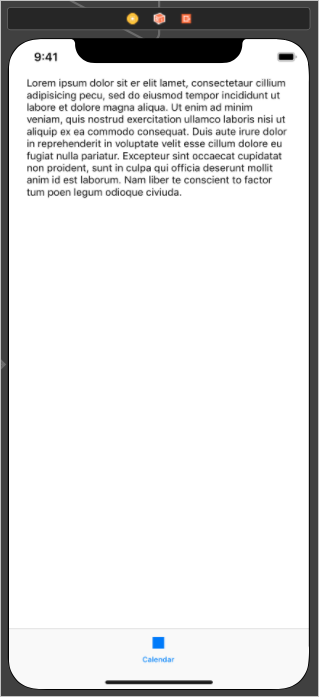
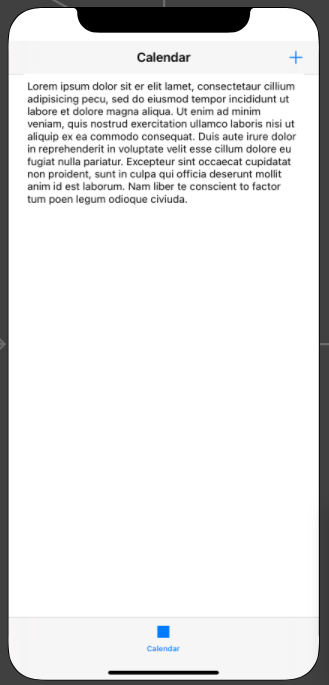
Update create app step

Changed region(s): [[0.0, 0.0, 1.0, 1.0], [0.0564, 0.9197, 0.9592, 1.0]]

diff --git a/tutorial/02-create-app.md b/tutorial/02-create-app.md
@@ -3,9 +3,9 @@
 Begin by creating a new Swift project.
 
 1. Open Xcode. On the **File** menu, select **New**, then **Project**.
-1. Choose the **Single View App** template and select **Next**.
+1. Choose the **App** template and select **Next**.
 
-    ![A screenshot of the Xcode template selection dialog](./images/xcode-select-template.png)
+    ![A screenshot of the Xcode template selection dialog](images/xcode-select-template.png)
 
 1. Set the **Product Name** to `GraphTutorial` and the **Language** to **Swift**.
 1. Fill in the remaining fields and select **Next**.
@@ -30,7 +30,7 @@ Before moving on, install some additional dependencies that you will use later.
 1. Open the Podfile and add the following lines just after the `use_frameworks!` line.
 
     ```Ruby
-    pod 'MSAL', '~> 1.1.1'
+    pod 'MSAL', '~> 1.1.13'
     pod 'MSGraphClientSDK', ' ~> 1.0.0'
     pod 'MSGraphClientModels', '~> 1.3.0'
     ```
@@ -52,7 +52,7 @@ In this section you will create the views for the app: a sign in page, a tab bar
 1. Expand the **GraphTutorial** folder in Xcode, then select **ViewController.swift**.
 1. In the **File Inspector**, change the **Name** of the file to `SignInViewController.swift`.
 
-    ![A screenshot of the File Inspector](./images/rename-file.png)
+    ![A screenshot of the File Inspector](images/rename-file.png)
 
 1. Open **SignInViewController.swift** and replace its contents with the following code.
 
@@ -72,31 +72,30 @@ In this section you will create the views for the app: a sign in page, a tab bar
     }
     ```
 
-1. Open the **Main.storyboard** file.
-1. Expand **View Controller Scene**, then select **View Controller**.
+1. Open **Main.storyboard**. Expand **View Controller Scene**, then select **View Controller**.
 
-    ![A screenshot of Xcode with the View Controller selected](./images/storyboard-select-view-controller.png)
+    ![A screenshot of Xcode with the View Controller selected](images/storyboard-select-view-controller.png)
 
 1. Select the **Identity Inspector**, then change the **Class** dropdown to **SignInViewController**.
 
-    ![A screenshot of the Identity Inspector](./images/change-class.png)
+    ![A screenshot of the Identity Inspector](images/change-class.png)
 
 1. Select the **Library**, then drag a **Button** onto the **Sign In View Controller**.
 
-    ![A screenshot of the Library in Xcode](./images/add-button-to-view.png)
+    ![A screenshot of the Library in Xcode](images/add-button-to-view.png)
 
 1. With the button selected, select the **Attributes Inspector** and change the **Title** of the button to `Sign In`.
 
-    ![A screenshot of the Title field in the Attributes Inspector in Xcode](./images/set-button-title.png)
+    ![A screenshot of the Title field in the Attributes Inspector in Xcode](images/set-button-title.png)
 
 1. With the button selected, select the **Align** button at the bottom of the storyboard. Select both the **Horizontally in container** and **Vertically in container** constraints, leave their values as 0, then select **Add 2 constraints**.
 
-    ![A screenshot of the alignment constraints settings in Xcode](./images/add-alignment-constraints.png)
+    ![A screenshot of the alignment constraints settings in Xcode](images/add-alignment-constraints.png)
 
 1. Select the **Sign In View Controller**, then select the **Connections Inspector**.
 1. Under **Received Actions**, drag the unfilled circle next to **signIn** onto the button. Select **Touch Up Inside** on the pop-up menu.
 
-    ![A screenshot of dragging the signIn action to the button in Xcode](./images/connect-sign-in-button.png)
+    ![A screenshot of dragging the signIn action to the button in Xcode](images/connect-sign-in-button.png)
 
 ### Create tab bar
 
@@ -104,11 +103,11 @@ In this section you will create the views for the app: a sign in page, a tab bar
 1. Select the **Sign In View Controller**, then select the **Connections Inspector**.
 1. Under **Triggered Segues**, drag the unfilled circle next to **manual** onto the **Tab Bar Controller** on the storyboard. Select **Present Modally** in the pop-up menu.
 
-    ![A screenshot of dragging a manual segue to the new Tab Bar Controller in Xcode](./images/add-segue.png)
+    ![A screenshot of dragging a manual segue to the new Tab Bar Controller in Xcode](images/add-segue.png)
 
 1. Select the segue you just added, then select the **Attributes Inspector**. Set the **Identifier** field to `userSignedIn`, and set **Presentation** to **Full Screen**.
 
-    ![A screenshot of the Identifier field in the Attributes Inspector in Xcode](./images/set-segue-identifier.png)
+    ![A screenshot of the Identifier field in the Attributes Inspector in Xcode](images/set-segue-identifier.png)
 
 1. Select the **Item 1 Scene**, then select the **Connections Inspector**.
 1. Under **Triggered Segues**, drag the unfilled circle next to **manual** onto the **Sign In View Controller** on the storyboard. Select **Present Modally** in the pop-up menu.
@@ -117,11 +116,11 @@ In this section you will create the views for the app: a sign in page, a tab bar
 ### Create welcome page
 
 1. Select the **Assets.xcassets** file.
-1. On the **Editor** menu, select **Add Assets**, then **New Image Set**.
+1. On the **Editor** menu, select **Add New Asset**, then **Image Set**.
 1. Select the new **Image** asset and use the **Attribute Inspector** to set its **Name** to `DefaultUserPhoto`.
 1. Add any image you like to serve as a default user profile photo.
 
-    ![A screenshot of the Image Set asset view in Xcode](./images/add-default-user-photo.png)
+    ![A screenshot of the Image Set asset view in Xcode](images/add-default-user-photo.png)
 
 1. Create a new **Cocoa Touch Class** file in the **GraphTutorial** folder named `WelcomeViewController`. Choose **UIViewController** in the **Subclass of** field.
 1. Open **WelcomeViewController.swift** and replace its contents with the following code.
@@ -202,7 +201,7 @@ In this section you will create the views for the app: a sign in page, a tab bar
 
 The welcome scene should look similar to this once you're done.
 
-![A screenshot of the Welcome scene layout](./images/welcome-scene-layout.png)
+![A screenshot of the Welcome scene layout](images/welcome-scene-layout.png)
 
 ### Create calendar page
 
@@ -225,19 +224,53 @@ The welcome scene should look similar to this once you're done.
             calendarJSON.text = "Calendar"
             calendarJSON.sizeToFit()
         }
+
+        @IBAction func showNewEventForm() {
+            self.performSegue(withIdentifier: "showEventForm", sender: self)
+        }
     }
     ```
 
 1. Open **Main.storyboard**. Select the **Item 2 Scene**, then select the **Identity Inspector**. Change the **Class** value to **CalendarViewController**.
+1. Using the **Library**, add a **Navigation Bar** to the **Item 2 Scene**.
+1. Double-click the **Title** in the navigation bar and update it to `Calendar`.
+1. Using the **Library**, add a **Bar Button Item** to the right-hand side of the navigation bar.
+1. Select the new bar button, then select the **Attributes Inspector**. Change **Image** to **plus**.
 1. Using the **Library**, add a **Text View** to the **Item 2 Scene**.
 1. Select the text view you just added. On the **Editor** menu, choose **Embed In**, then **Scroll View**.
+1. Resize the scroll view and text view to take up the screen under the navigation bar.
 1. Using the **Connections Inspector**, connect the **calendarJSON** outlet to the text view.
+1. Connect the **showNewEventForm** received action to the navigation bar button.
 1. Select the tab bar item at the bottom of the scene, then select the **Attributes Inspector**. Change the **Title** to `Calendar`.
-1. On the **Editor** menu, select **Resolve Auto Layout Issues**, then select **Add Missing Constraints** underneath **All Views in Welcome View Controller**.
+1. On the **Editor** menu, select **Resolve Auto Layout Issues**, then select **Add Missing Constraints** underneath **All Views in Calendar View Controller**.
 
 The calendar scene should look similar to this once you're done.
 
-![A screenshot of the Calendar scene layout](./images/calendar-scene-layout.png)
+![A screenshot of the Calendar scene layout](images/calendar-scene-layout.png)
+
+### Create new event page
+
+1. Create a new **Cocoa Touch Class** file in the **GraphTutorial** folder named `NewEventViewController`. Choose **UIViewController** in the **Subclass of** field.
+1. Open **NewEventViewController.swift** and add the following function to the **NewEventViewController** class.
+
+    ```swift
+    @IBAction func cancel() {
+        self.dismiss(animated: true, completion: nil)
+    }
+    ```
+
+1. Open **Main.storyboard**. Use the **Library** to drag a **View Controller** onto the storyboard.
+1. Using the **Library**, add a **Navigation Bar** to the view controller.
+1. Double-click the **Title** in the navigation bar and update it to `New Event`.
+1. Using the **Library**, add a **Bar Button Item** to the left-hand side of the navigation bar.
+1. Select the new bar button, then select the **Attributes Inspector**. Change **Title** to `Cancel`.
+1. Using the **Library**, add a **Bar Button Item** to the right-hand side of the navigation bar.
+1. Select the new bar button, then select the **Attributes Inspector**. Change **Title** to `Create`.
+1. Select the view controller, then select the **Identity Inspector**. Change **Class** to **NewEventViewController**.
+1. Use the **Connection Inspector** to connect the **cancel** received action to the **Cancel** bar button.
+1. Select the **Calendar Scene**, then select the **Connections Inspector**.
+1. Under **Triggered Segues**, drag the unfilled circle next to **manual** onto the **New Event View Controller** on the storyboard. Select **Present Modally** in the pop-up menu.
+1. Select the segue you just added, then select the **Attributes Inspector**. Set the **Identifier** field to `showEventForm`.
 
 ### Create activity indicator
 
@@ -250,4 +283,4 @@ The calendar scene should look similar to this once you're done.
 
 Save your changes and launch the app. You should be able to move between the screens using the **Sign In** and **Sign Out** buttons and the tab bar.
 
-![Screenshots of the application](./images/app-screens.png)
+![Screenshots of the application](images/app-screens.png)
